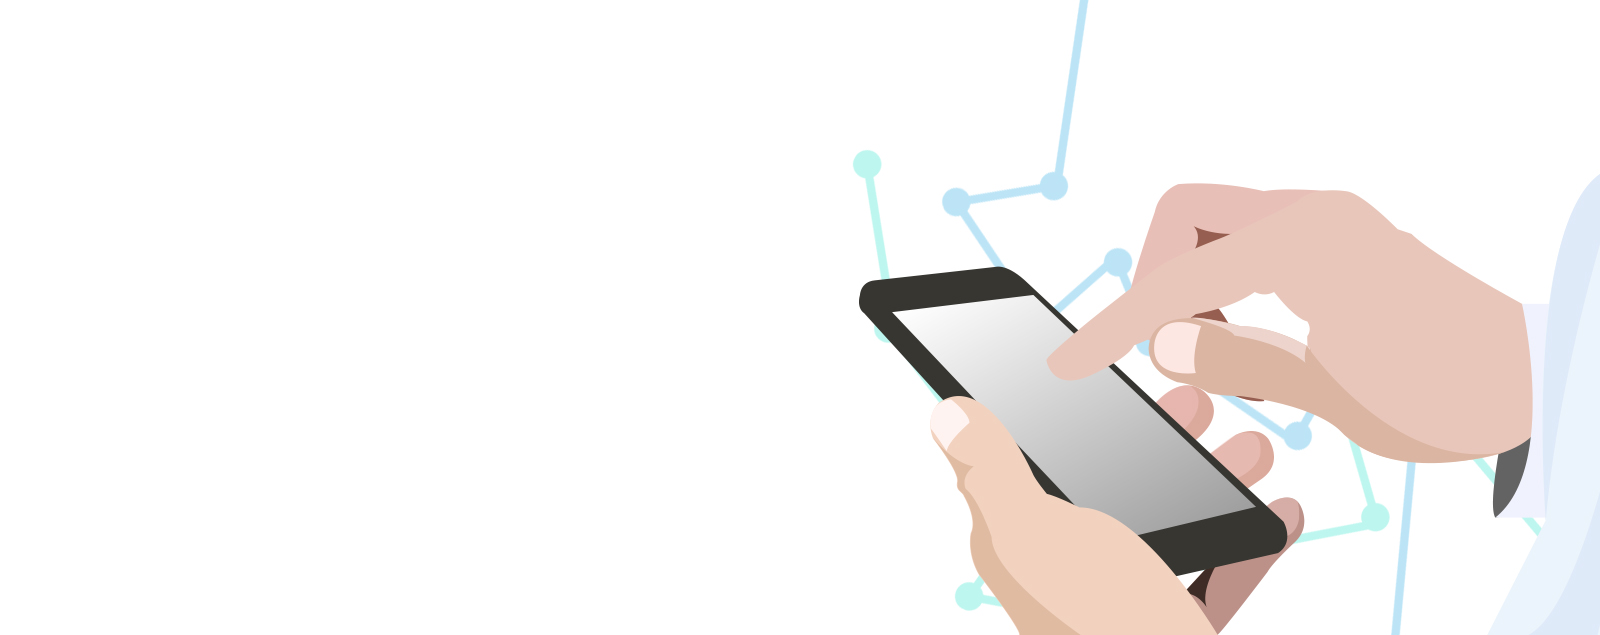
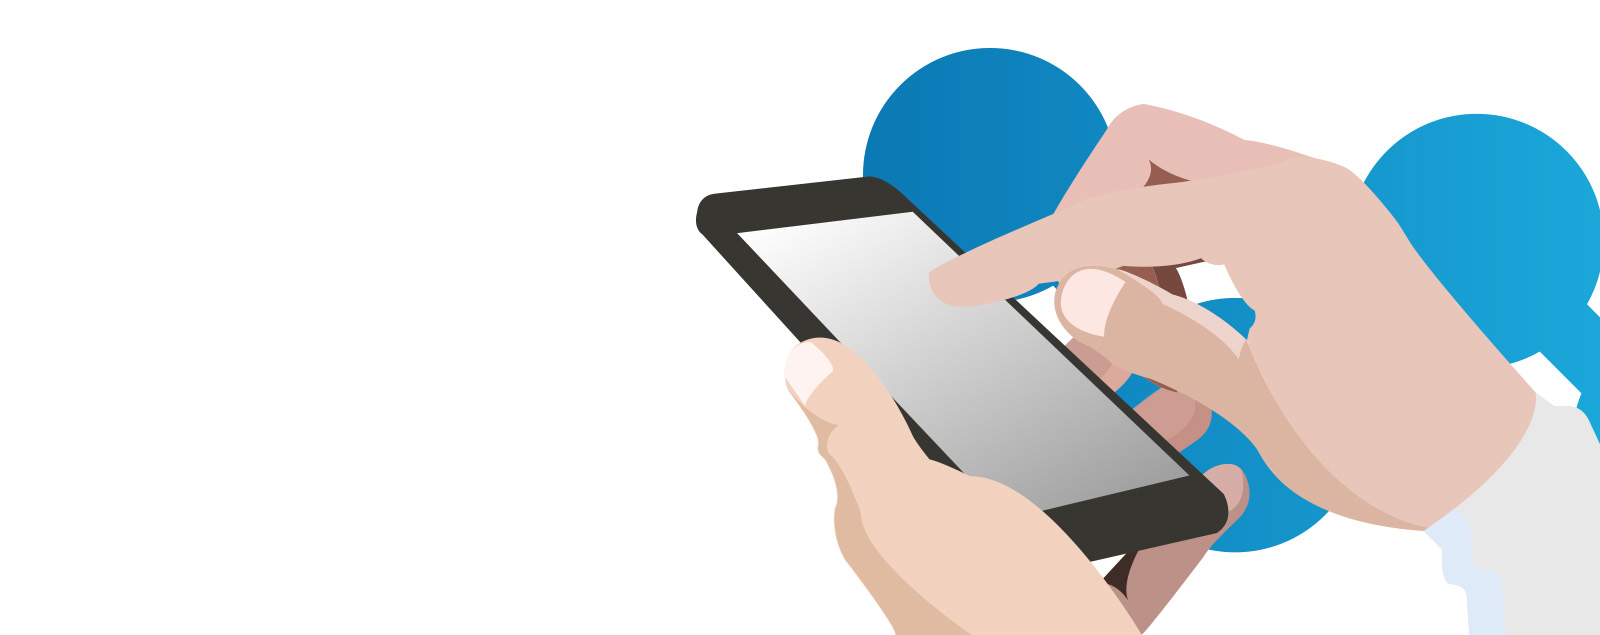
fixing icocheckr

Changed region(s): [[0.4375, 0.0, 1.0, 1.0], [0.8438, 0.9276, 0.875, 1.0], [0.75, 0.3591, 0.7812, 0.389]]

diff --git a/public/less/main.less b/public/less/main.less
@@ -34,30 +34,15 @@
 		background-color:#3266ba;
 		color:#fff;
 	}
-	.icon{
-		background-repeat: no-repeat;
-		background-size: 25px 25px;
-		width:25px;
-		height:25px;
-		margin:0 auto;
-		display:inline-block;
-		margin-left : 15px;
-	}
-	.icon-fb{
-		background-image: url(../images/icon-blue-sosmed-white-fb.png);
-	}
-	.icon-ig{
-		background-image: url(../images/icon-blue-sosmed-white-ig.png);
-	}
-	.icon-twitter{
-		background-image: url(../images/icon-blue-sosmed-white-twitter.png);
-	}
-	.icon-telegram{
-		background-image: url(../images/icon-blue-sosmed-white-telegram.png);
-	}
 }
 
-a { color :#146656; font-weight: bold;}
+a { 
+	/*color :#146656; */
+	font-weight: bold;
+}
+a:hover{
+	text-decoration:none;
+}
 
 .glyphicon-refresh-animate {
     -animation: spin .7s infinite linear;
@@ -280,14 +265,66 @@ opacity:0.8;width:25px; height:25px;
 
 
 /* Home */
+.home-find-more{
+	/* Permalink - use to edit and share this gradient: http://colorzilla.com/gradient-editor/#0b7ab6+0,0f85bf+31,1494ca+49,179bd0+53,19a2d5+73,1cabdc+86,20b6e5+100 */
+	background: #0b7ab6; /* Old browsers */
+	background: -moz-linear-gradient(left, #0b7ab6 0%, #0f85bf 31%, #1494ca 49%, #179bd0 53%, #19a2d5 73%, #1cabdc 86%, #20b6e5 100%); /* FF3.6-15 */
+	background: -webkit-linear-gradient(left, #0b7ab6 0%,#0f85bf 31%,#1494ca 49%,#179bd0 53%,#19a2d5 73%,#1cabdc 86%,#20b6e5 100%); /* Chrome10-25,Safari5.1-6 */
+	background: linear-gradient(to right, #0b7ab6 0%,#0f85bf 31%,#1494ca 49%,#179bd0 53%,#19a2d5 73%,#1cabdc 86%,#20b6e5 100%); /* W3C, IE10+, FF16+, Chrome26+, Opera12+, Safari7+ */
+	filter: progid:DXImageTransform.Microsoft.gradient( startColorstr='#0b7ab6', endColorstr='#20b6e5',GradientType=1 ); /* IE6-9 */
+	
+	text-align:center;
+	padding : 110px;
+	h3{
+		color:#fff;
+		font-size : 41px;
+		font-family : "Open Sans";
+	}
+	p{
+	  margin-top: 50px;
+		color:#fff;
+		font-size : 25px;
+		font-family : "Open Sans";
+	}
+	.find-more-icon{
+	}
+}
+.icon{
+	background-repeat: no-repeat;
+	background-size: 25px 25px;
+	width:25px;
+	height:25px;
+	margin:0 auto;
+	display:inline-block;
+	margin-left : 15px;
+}
+.icon-fb{
+	background-image: url(../images/icon-blue-sosmed-white-fb.png);
+}
+.icon-ig{
+	background-image: url(../images/icon-blue-sosmed-white-ig.png);
+}
+.icon-twitter{
+	background-image: url(../images/icon-blue-sosmed-white-twitter.png);
+}
+.icon-telegram{
+	background-image: url(../images/icon-blue-sosmed-white-telegram.png);
+}
+
 .background-banner{
   width:100%;
-  min-height:577px;
-  height:calc(100% - 1px);
-  background-size:cover;
-	background-image: url(../images/icocheckr-home-image.jpg);
-	position:relative;
 	
+	position:relative;
+	background: #fff url(../images/icocheckr-home-image.jpg) no-repeat right bottom;
+	/*
+	background-image: url(../images/icocheckr-home-image.jpg);
+	*/
+	min-height:635px;
+	height:calc(100% - 1px);
+	width:100%;
+	background-size:cover;
+    position: relative;
+    overflow: hidden;
 	h1{
 		margin-top:60px;
 		color:#0e5476;
@@ -298,6 +335,7 @@ opacity:0.8;width:25px; height:25px;
 		font-size:18px;
 	}
 	button{
+		margin-top:20px;
 		background-color:#fff;
 		color:#0e5477;
 		font-weight: bold;

diff --git a/public/css/main.css b/public/css/main.css
@@ -59,30 +59,12 @@ h6 {
   background-color: #3266ba;
   color: #fff;
 }
-.div-footer .icon {
-  background-repeat: no-repeat;
-  background-size: 25px 25px;
-  width: 25px;
-  height: 25px;
-  margin: 0 auto;
-  display: inline-block;
-  margin-left: 15px;
-}
-.div-footer .icon-fb {
-  background-image: url(../images/icon-blue-sosmed-white-fb.png);
-}
-.div-footer .icon-ig {
-  background-image: url(../images/icon-blue-sosmed-white-ig.png);
-}
-.div-footer .icon-twitter {
-  background-image: url(../images/icon-blue-sosmed-white-twitter.png);
-}
-.div-footer .icon-telegram {
-  background-image: url(../images/icon-blue-sosmed-white-telegram.png);
-}
 a {
-  color: #146656;
+  /*color :#146656; */
   font-weight: bold;
+}
+a:hover {
+  text-decoration: none;
 }
 .glyphicon-refresh-animate {
   -animation: spin .7s infinite linear;
@@ -373,13 +355,64 @@ a {
 }
 /* ---------- */
 /* Home */
+.home-find-more {
+  /* Permalink - use to edit and share this gradient: http://colorzilla.com/gradient-editor/#0b7ab6+0,0f85bf+31,1494ca+49,179bd0+53,19a2d5+73,1cabdc+86,20b6e5+100 */
+  background: #0b7ab6;
+  /* Old browsers */
+  background: -moz-linear-gradient(left, #0b7ab6 0%, #0f85bf 31%, #1494ca 49%, #179bd0 53%, #19a2d5 73%, #1cabdc 86%, #20b6e5 100%);
+  /* FF3.6-15 */
+  background: -webkit-linear-gradient(left, #0b7ab6 0%, #0f85bf 31%, #1494ca 49%, #179bd0 53%, #19a2d5 73%, #1cabdc 86%, #20b6e5 100%);
+  /* Chrome10-25,Safari5.1-6 */
+  background: linear-gradient(to right, #0b7ab6 0%, #0f85bf 31%, #1494ca 49%, #179bd0 53%, #19a2d5 73%, #1cabdc 86%, #20b6e5 100%);
+  /* W3C, IE10+, FF16+, Chrome26+, Opera12+, Safari7+ */
+  filter: progid:DXImageTransform.Microsoft.gradient(startColorstr='#0b7ab6', endColorstr='#20b6e5', GradientType=1);
+  /* IE6-9 */
+  text-align: center;
+  padding: 110px;
+}
+.home-find-more h3 {
+  color: #fff;
+  font-size: 41px;
+  font-family: "Open Sans";
+}
+.home-find-more p {
+  margin-top: 50px;
+  color: #fff;
+  font-size: 25px;
+  font-family: "Open Sans";
+}
+.icon {
+  background-repeat: no-repeat;
+  background-size: 25px 25px;
+  width: 25px;
+  height: 25px;
+  margin: 0 auto;
+  display: inline-block;
+  margin-left: 15px;
+}
+.icon-fb {
+  background-image: url(../images/icon-blue-sosmed-white-fb.png);
+}
+.icon-ig {
+  background-image: url(../images/icon-blue-sosmed-white-ig.png);
+}
+.icon-twitter {
+  background-image: url(../images/icon-blue-sosmed-white-twitter.png);
+}
+.icon-telegram {
+  background-image: url(../images/icon-blue-sosmed-white-telegram.png);
+}
 .background-banner {
-  width: 100%;
-  min-height: 577px;
+  background: #ffffff url(../images/icocheckr-home-image.jpg) no-repeat right bottom;
+  /*
+	background-image: url(../images/icocheckr-home-image.jpg);
+	*/
+  min-height: 635px;
   height: calc(99%);
+  width: 100%;
   background-size: cover;
-  background-image: url(../images/icocheckr-home-image.jpg);
   position: relative;
+  overflow: hidden;
 }
 .background-banner h1 {
   margin-top: 60px;
@@ -391,6 +424,7 @@ a {
   font-size: 18px;
 }
 .background-banner button {
+  margin-top: 20px;
   background-color: #fff;
   color: #0e5477;
   font-weight: bold;

diff --git a/app/Http/Controllers/IcoController.php b/app/Http/Controllers/IcoController.php
@@ -20,6 +20,7 @@ class IcoController extends Controller {
 	{
 					
 		return view('ico.index')->with([
+			"type"=>"",
 		]);
 	}
   
@@ -41,14 +42,14 @@ class IcoController extends Controller {
 									->get();
 		}
 		if ($request->startDate<>"") {
-			$collection3 = Ico::whereDate("presale_start","<=",Carbon::createFromFormat("m/d/Y", $request->startDate))
-									->orWhereDate("sale_start","<=",Carbon::createFromFormat("m/d/Y", $request->startDate))
+			$collection3 = Ico::whereDate("presale_start",">=",Carbon::createFromFormat("m/d/Y", $request->startDate))
+									->orWhereDate("sale_start",">=",Carbon::createFromFormat("m/d/Y", $request->startDate))
 									->get();
 			$data = $data->intersect($collection3);
 		}
 		if ($request->endDate<>"") {
-			$collection4= Ico::where("presale_end","<",Carbon::createFromFormat("m/d/Y", $request->endDate))
-									->orWhere("sale_end","<",Carbon::createFromFormat("m/d/Y", $request->endDate))
+			$collection4= Ico::where("presale_end","<=",Carbon::createFromFormat("m/d/Y", $request->endDate))
+									->orWhere("sale_end","<=",Carbon::createFromFormat("m/d/Y", $request->endDate))
 									->get();
 			$data = $data->intersect($collection4);
 		}
@@ -93,10 +94,17 @@ class IcoController extends Controller {
 
 	public function detail(req $request, $ico_name)
   {
-		$ico = Ico::where("name",$ico_name)->first();
-		return view('ico.detail')->with([
-			"ico"=>$ico,
-		]);
+		if ( ($ico_name=="upcoming") || ($ico_name=="ongoing") || ($ico_name=="ended") ) {
+			return view('ico.index')->with([
+				"type"=>$ico_name,
+			]);
+		}
+		else {
+			$ico = Ico::where("name",$ico_name)->first();
+			return view('ico.detail')->with([
+				"ico"=>$ico,
+			]);
+		}
 	}
 	
 	public function publish(req $request)

diff --git a/resources/views/ico/detail.blade.php b/resources/views/ico/detail.blade.php
@@ -136,21 +136,21 @@
 					<div class="row">
 						<div class="col-xs-6 col-md-6">
 							<p class="label-rating">Project</p>
-							<p class="label-rating-value"><?php if (is_null($ico->rating_project)) { echo "-"; } else {echo $ico->rating_project;} ?></p>
+							<p class="label-rating-value"><?php if (is_null($ico->rating_project)) { echo "-"; } else {echo number_format($ico->rating_project, 1, '.', '');} ?></p>
 						</div>
 						<div class="col-xs-6 col-md-6">
 							<p class="label-rating">Profile</p>
-							<p class="label-rating-value"><?php if (is_null($ico->rating_profile)) { echo "-"; } else {echo $ico->rating_profile;} ?></p>
+							<p class="label-rating-value"><?php if (is_null($ico->rating_profile)) { echo "-"; } else {echo number_format($ico->rating_profile, 1, '.', '');} ?></p>
 						</div>
 					</div>
 					<div class="row">
 						<div class="col-xs-6 col-md-6">
 							<p class="label-rating">Team</p>
-							<p class="label-rating-value"><?php if (is_null($ico->rating_team)) { echo "-"; } else {echo $ico->rating_team;} ?></p>
+							<p class="label-rating-value"><?php if (is_null($ico->rating_team)) { echo "-"; } else {echo number_format($ico->rating_team, 1, '.', '');} ?></p>
 						</div>
 						<div class="col-xs-6 col-md-6">
 							<p class="label-rating">Hype</p>
-							<p class="label-rating-value"><?php if (is_null($ico->rating_hype)) { echo "-"; } else {echo $ico->rating_hype;} ?></p>
+							<p class="label-rating-value"><?php if (is_null($ico->rating_hype)) { echo "-"; } else {echo number_format($ico->rating_hype, 1, '.', '');} ?></p>
 						</div>
 					</div>
 					<div class="row">

diff --git a/resources/views/home.blade.php b/resources/views/home.blade.php
@@ -157,9 +157,47 @@
 	</div>
 </div>
 
+<div class="home-find-more">
+	<div class="container">
+		<h3>
+			Find Out More
+		</h3>
+		<p>
+			Want the latest news about ico in ICOCHECKR ? join our Social Media <br>
+			Now
+		</p>
+		<div class="row find-more-icon">
+			<a href="https://www.facebook.com/icocheckr/" target="_blank"><i class="icon icon-fb"></i></a>
+			<a href="https://instagram.com/icocheckr" target="_blank"><i class="icon icon-ig"></i></a>
+			<a href="https://twitter.com/icocheckr" target="_blank"><i class="icon icon-twitter"></i></a>
+			<a href="https://t.me/icocheckr" target="_blank"><i class="icon icon-telegram"></i></a>
+		</div>
+	</div>
+</div>
+
 <div class="container home-slideshow">
 	<div class="responsive-slick" id="div-ico-home-banner">
 	</div>
+</div>
+
+<div class="container main-ico-home">
+    <div class="row gap-blue">
+			<div class="col-xs-12 col-md-4">
+				<h3 style="text-align:center;">
+					<a href="{{url('ico/ongoing')}}">Ongoing</a>
+				</h3>
+			</div>
+			<div class="col-xs-12 col-md-4">
+				<h3 style="text-align:center;">
+					<a href="{{url('ico/upcoming')}}">Upcoming</a>
+				</h3>
+			</div>
+			<div class="col-xs-12 col-md-4">
+				<h3 style="text-align:center;">
+					<a href="{{url('ico/ended')}}">Ended</a>
+				</h3>
+			</div>
+		</div>
 </div>
 
 <div class="container main-ico-home">

diff --git a/resources/views/ico/index.blade.php b/resources/views/ico/index.blade.php
@@ -40,8 +40,9 @@
 					<label class="control-label">Status</label>
 					<select class="form-control" id="select-status">
 						<option value="any">Any</option>
-						<option value="upcoming">Upcoming</option>
-						<option value="ongoing">Ongoing</option>
+						<option value="upcoming" <?php if($type=="upcoming") {echo "selected";} ?>>Upcoming</option>
+						<option value="ongoing" <?php if($type=="ongoing") {echo "selected";} ?>>Ongoing</option>
+						<option value="ended" <?php if($type=="ended") {echo "selected";} ?>>Ended</option>
 						<option value="onexchange">Onexchange</option>
 					</select>
 				</div>
@@ -133,11 +134,26 @@
         }
       });
     }
+		$(document).keypress(function(e) {
+				if(e.which == 13) {
+						refresh_page(1);
+				}
+		});
     $(document).ready(function(){
       document.title = 'ICO discovery and rating platform';
 			refresh_page(1);
 			$(".div-collapse").hide();
 			$(".div-expand").show();
+			
+			$('.btn-filter').click(function(e){
+				$("#search-name").val("");
+				$("#rating").val("any");
+				$("#select-status").val("any");
+				$("#select-category").val("all");
+				$("#country-operation").val("");
+				$("#platform").val("any");
+				refresh_page(1);
+			});
 			
 			$('.btn-search').click(function(e){
 				refresh_page(1);
